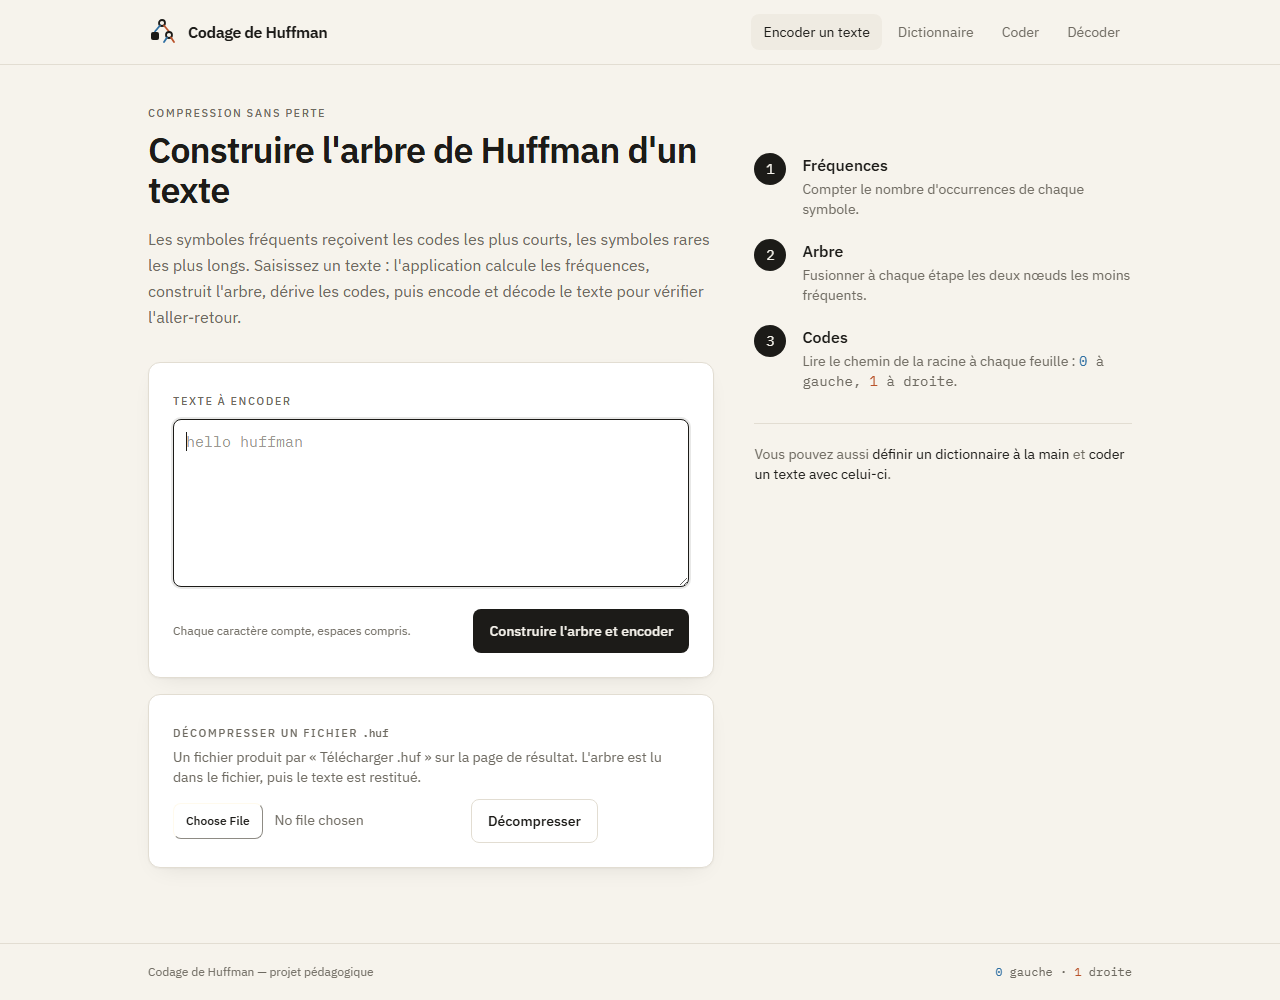
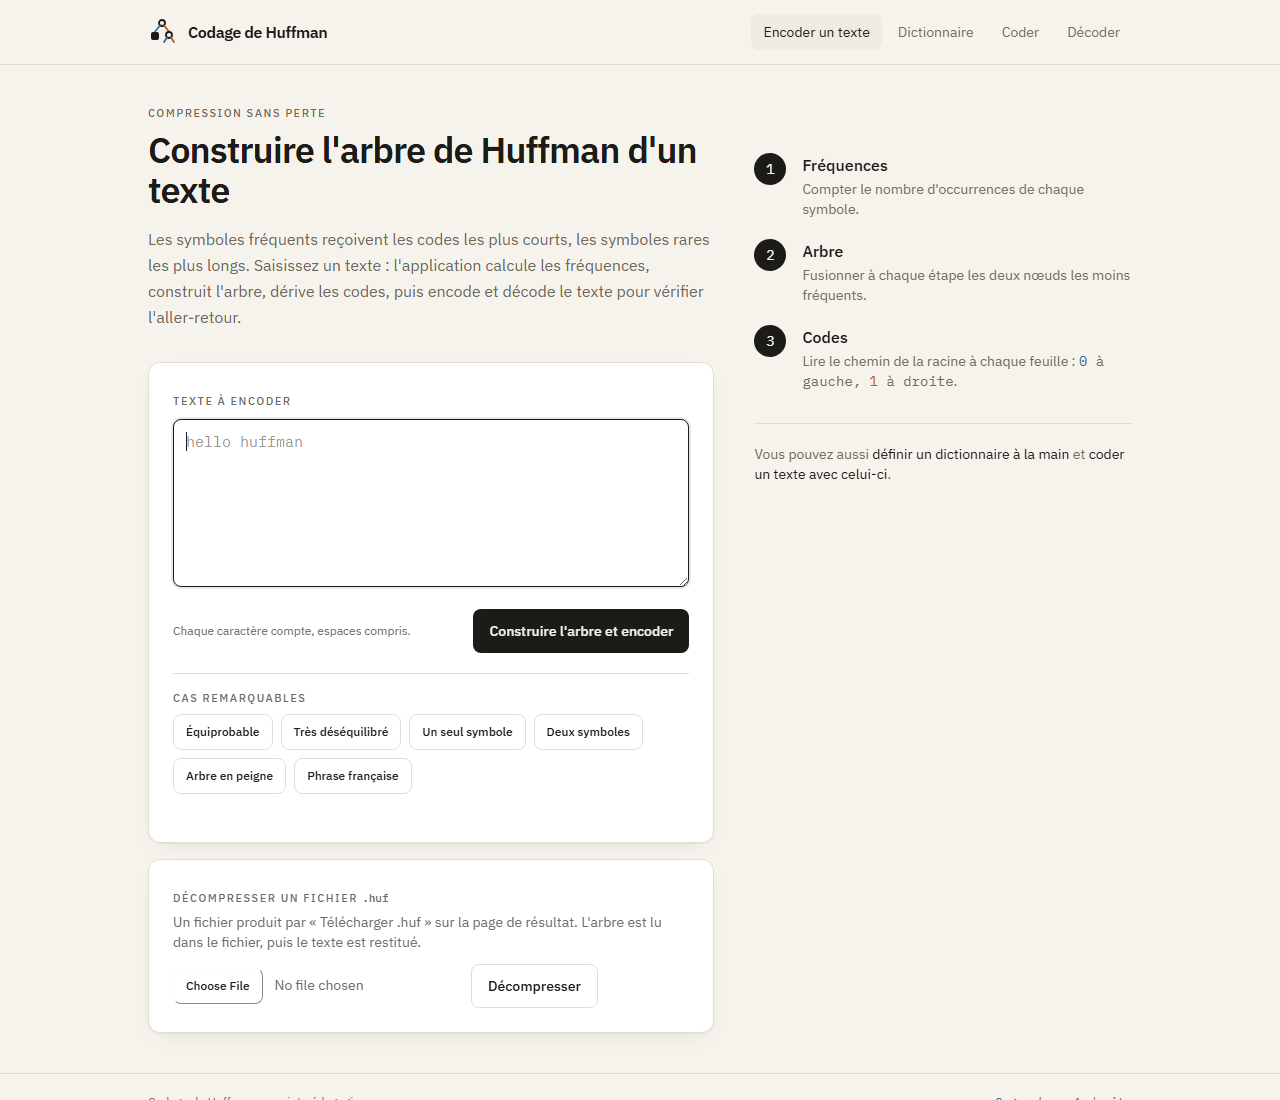
docs: captures d'écran et légendes à jour dans le README
Accueil avec les cas remarquables, résultat complet (théorie,
Shannon-Fano, arbre et décodage pas à pas), dictionnaire avec le
sélecteur de dictionnaires nommés.

diff --git a/README.md b/README.md
@@ -28,16 +28,18 @@ Usage prévu : un poste, un utilisateur, pas d'authentification.
 
 ## Aperçu
 
-**Accueil** — saisie du texte, rappel des trois étapes de l'algorithme, décompression d'un fichier `.huf`.
+**Accueil** — saisie du texte, cas remarquables en un clic, rappel des trois étapes, décompression d'un fichier `.huf`.
 
-![Accueil : formulaire de saisie, les trois étapes, décompression](docs/screenshots/accueil.png)
+![Accueil : formulaire de saisie, cas remarquables, les trois étapes, décompression](docs/screenshots/accueil.png)
 
 **Résultat** — indicateurs de compression, contrôle de l'aller-retour, texte encodé (0 en bleu, 1 en terre cuite),
-taille réelle du fichier `.huf`, table des fréquences et codes, arbre de Huffman rejouable pas à pas.
+taille réelle du fichier `.huf`, entropie et somme de Kraft, codes de Huffman et de Shannon-Fano côte à côte,
+construction de l'arbre rejouable pas à pas, décodage pas à pas.
 
-![Résultat : indicateurs, texte encodé, fichier compressé, table des codes et arbre pas à pas](docs/screenshots/resultat.png)
+![Résultat : indicateurs, texte encodé, fichier compressé, théorie, table des codes, arbre pas à pas et décodage pas à pas](docs/screenshots/resultat.png)
 
-**Dictionnaire** — saisie d'un couple caractère / code, avec validation (doublons, préfixes) et messages explicites.
+**Dictionnaire** — choix du dictionnaire nommé, saisie d'un couple caractère / code avec validation (doublons, préfixes),
+messages explicites et somme de Kraft.
 
 ![Dictionnaire : formulaire d'ajout et table des entrées](docs/screenshots/dictionnaire.png)
 
